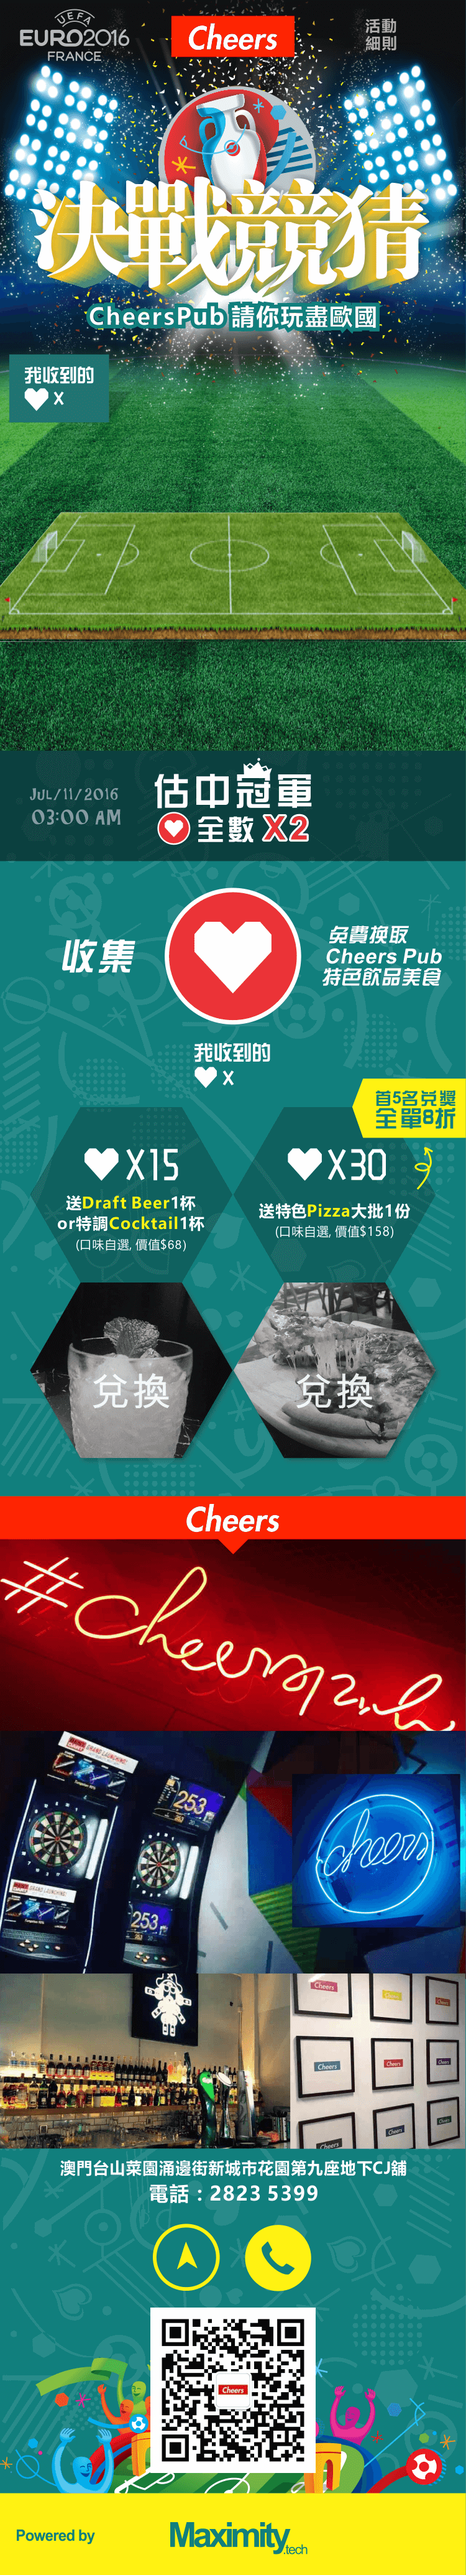
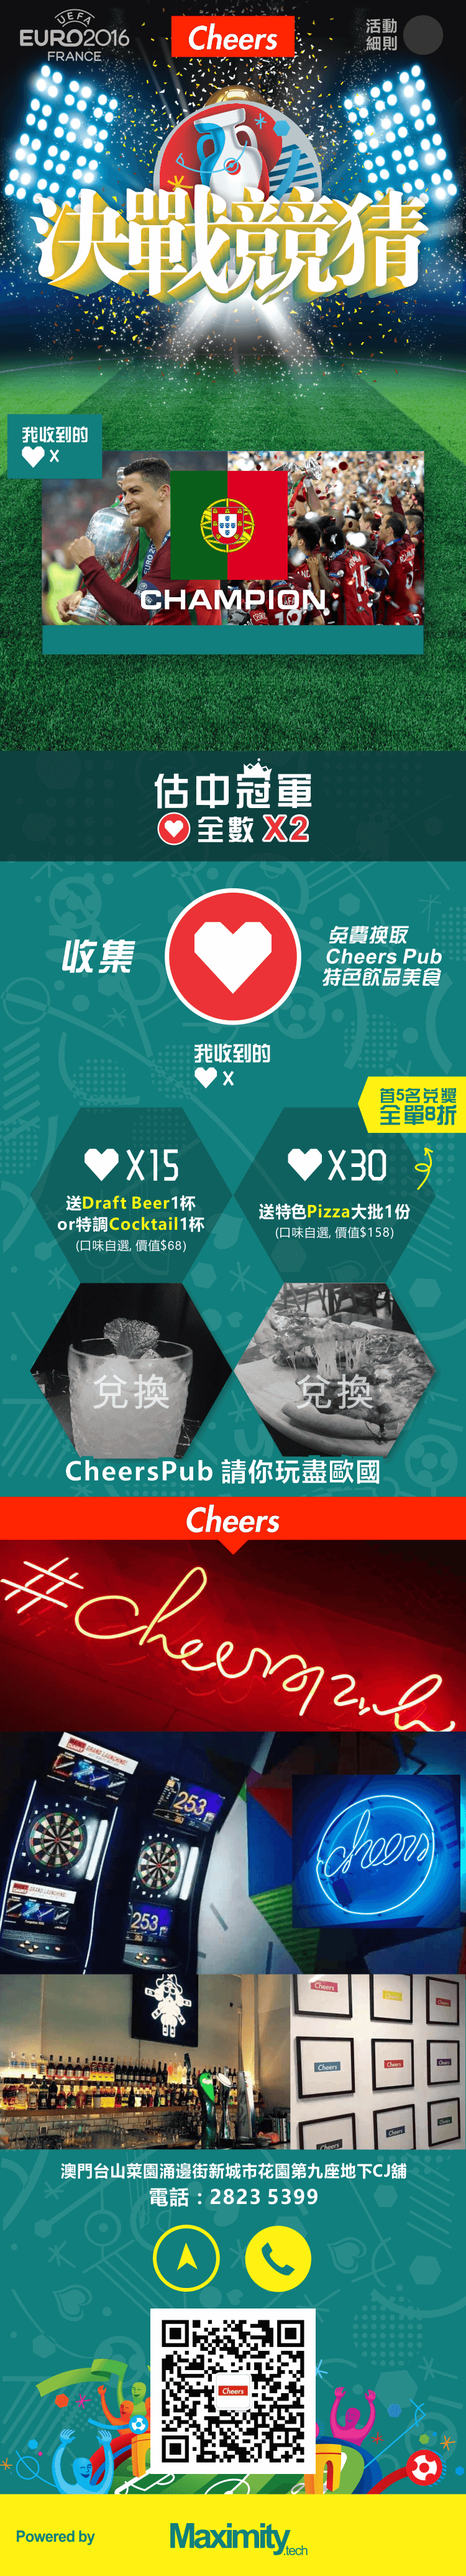
update photos

diff --git a/assets/controllers/easywash.js b/assets/controllers/easywash.js
@@ -281,8 +281,9 @@ function($scope, $http, $timeout, $interval, $location, $anchorScroll){
           $scope.prize1Remain = 30;
           $scope.userPrize = {};
           $scope.sharedToUsers = [];
-          //$scope.userVote = 'vote2';
-          $scope.updateGameResult();
+          $scope.userVote = 'vote2';
+          //$scope.updateGameResult();
+          $scope.gameResult = 'vote1';
           $scope.updatePrizeRemain();
           $scope.voteRate1 = 0;
           $scope.voteRate2 = 0;
@@ -509,7 +510,6 @@ function($scope, $http, $timeout, $interval, $location, $anchorScroll){
   $scope.showRedeemVoteBtn = function () {
     var now = new Date();
     var exp = new Date('2016-07-20T16:00:00');
-    return true;
     if ($scope.gameResult != null && $scope.userVote != null && $scope.gameResult == $scope.userVote && $scope.isRedeemVote != true && now.getTime() <= exp.getTime()) {
       return true;
     } else {

diff --git a/assets/styles/easywash.css b/assets/styles/easywash.css
@@ -1063,7 +1063,7 @@ i:nth-child(100) b {
     to {width:100%;top:-1%;right:1%;}
 }
 
-#main-2 img {
+/*#main-2 img {
   animation-name: choose;
   animation-duration: 1.8s;
   animation-iteration-count: infinite;
@@ -1073,7 +1073,7 @@ i:nth-child(100) b {
 @keyframes choose {
     from {opacity: 0.1;}
     to {opacity: 0.9;}
-}
+}*/
 
 #main-event-info img {
   animation-name: info;
